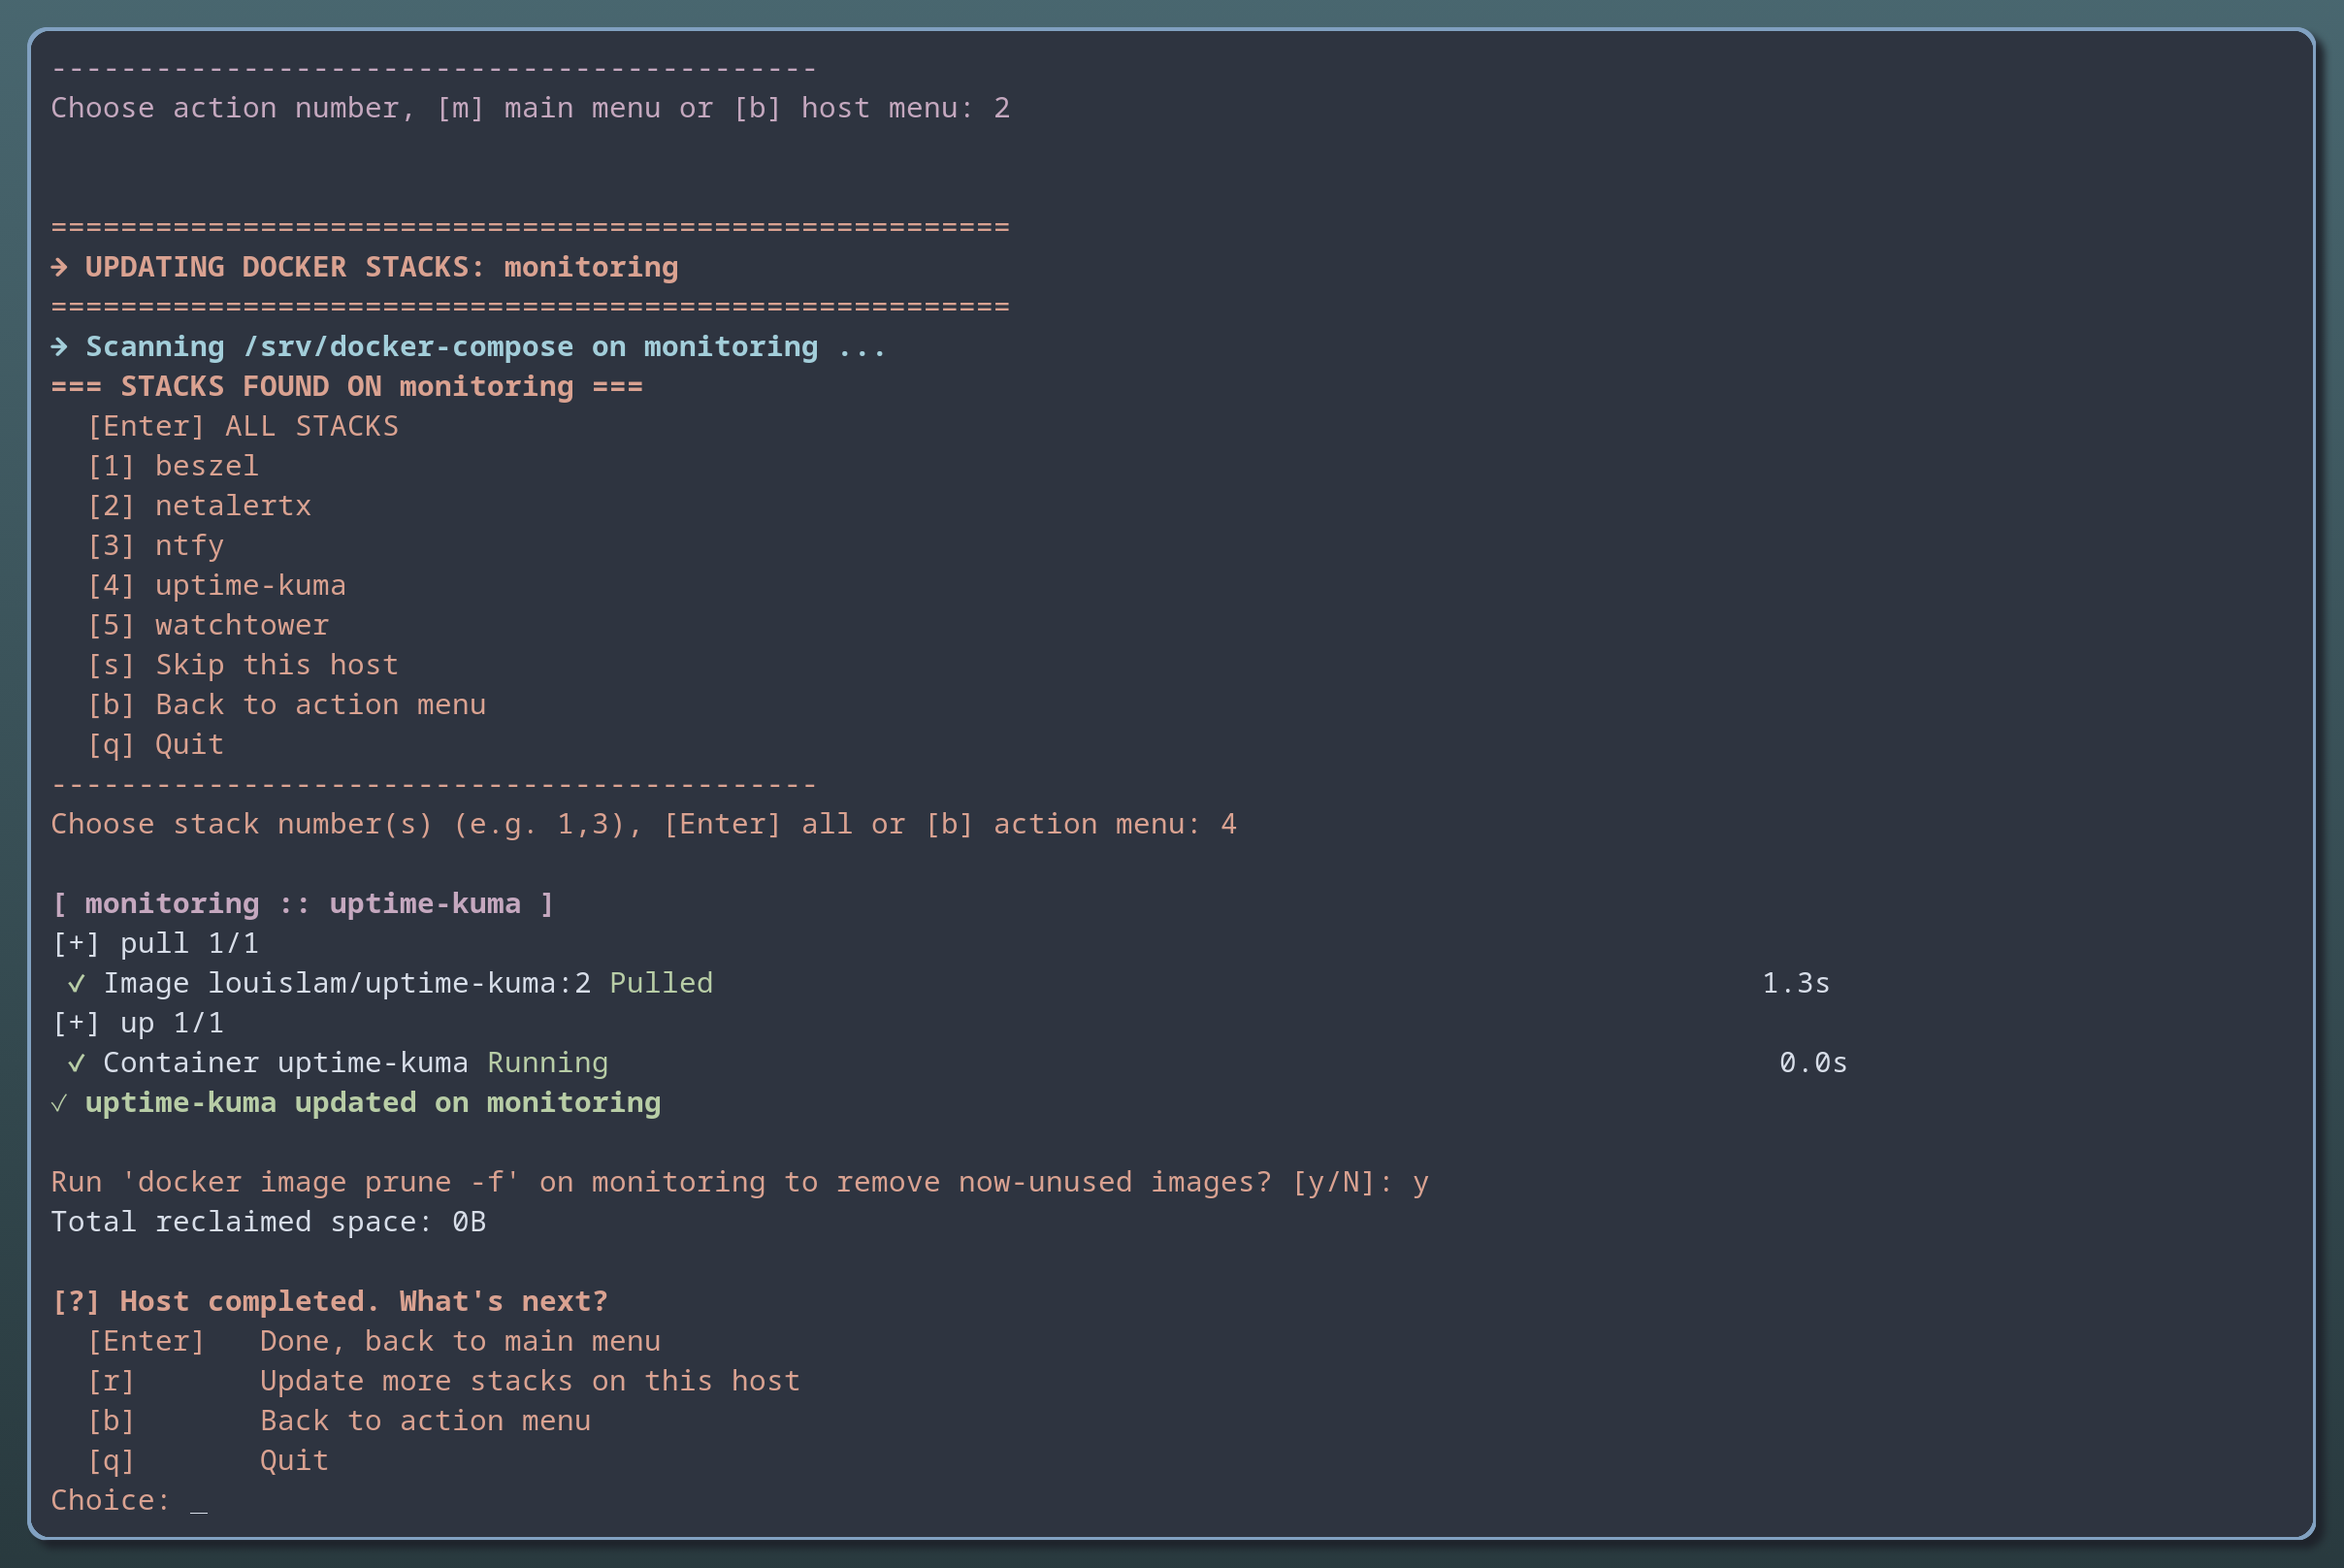
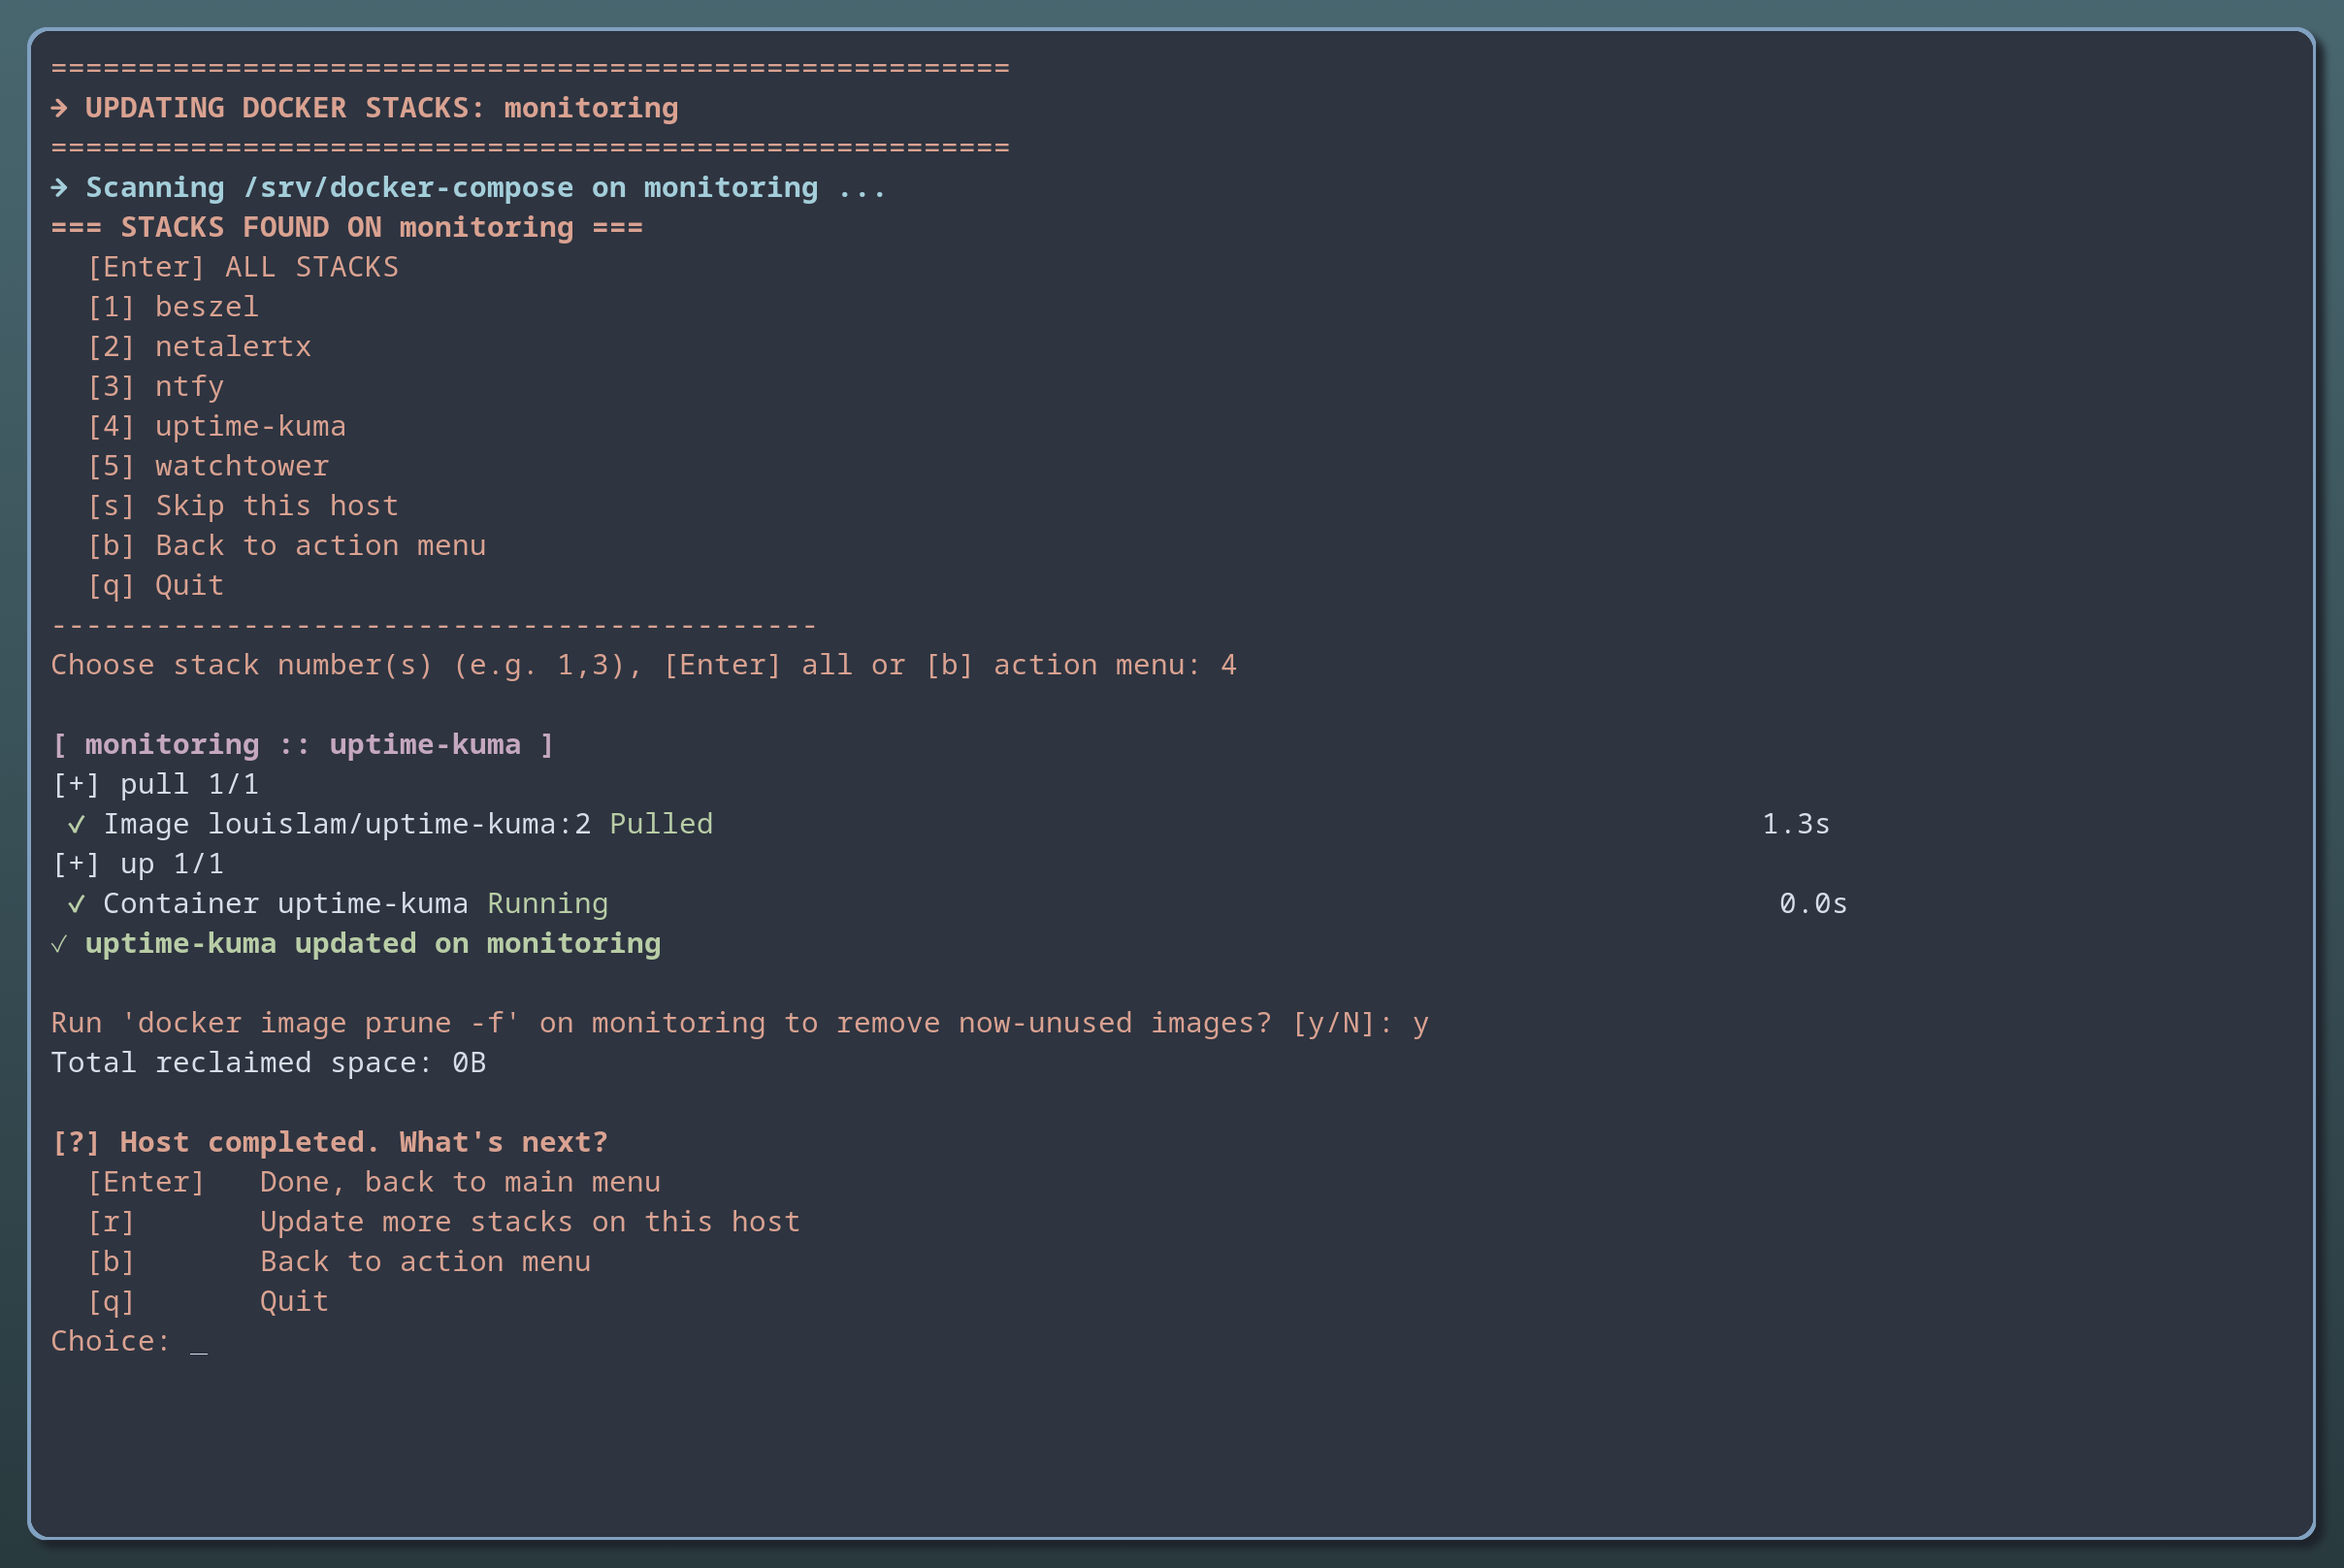
Every menu on a clean screen, earlier output stays in scrollback; new screenshots

diff --git a/README.md b/README.md
@@ -22,7 +22,9 @@ Bash script you can read in a few minutes and change.
 | Run a custom command | one command you type, e.g. `uptime` or `df -h` |
 
 Hosts are done one after another. A host that doesn't answer can be retried (after you start it) or skipped.
-Every menu has `[b]` back and `[q]` quit, Enter takes the default.
+Every menu has `[b]` back and `[q]` quit, Enter takes the default. Each menu opens on a clean screen;
+what was there before scrolls up, so you can still scroll back to it. After an action its output stays
+in view, with the menu under it.
 
 ## You need
 
